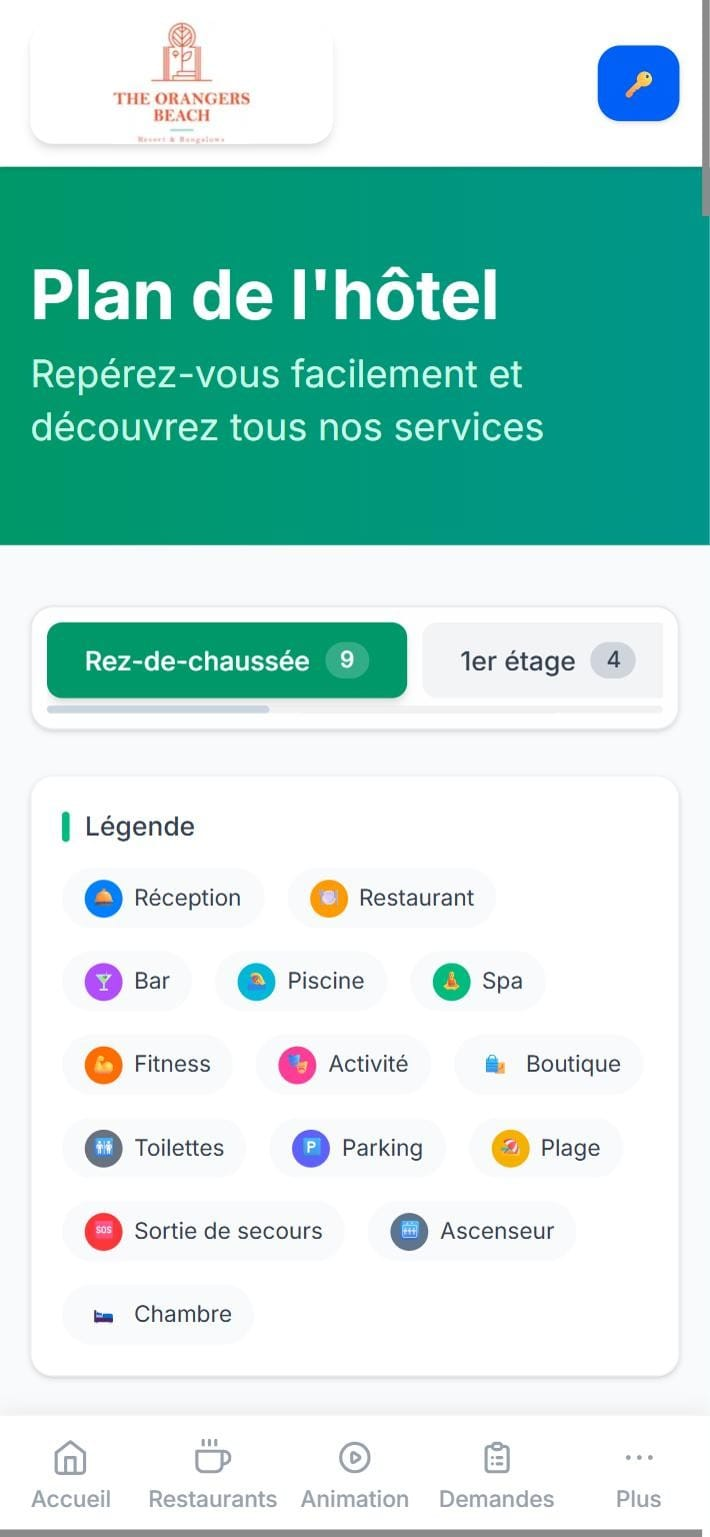
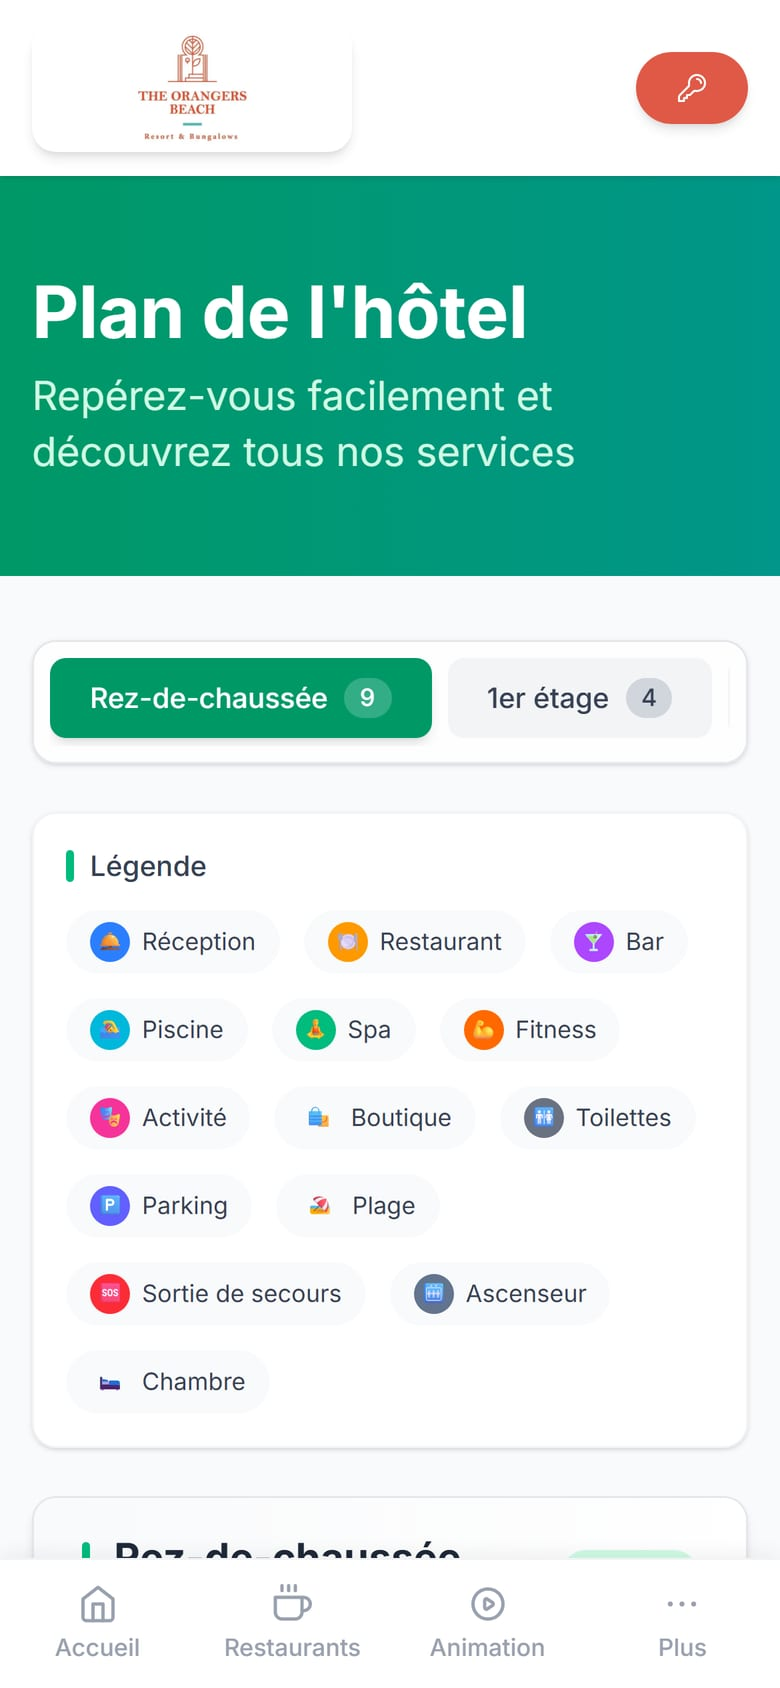
feat(captures-v2): captures prod guestskit.app via Playwright 390×844 3×, resize 780px, ≤95Ko (sharp mozjpeg)

diff --git a/scripts/capture-app.js b/scripts/capture-app.js
@@ -1,0 +1,114 @@
+/**
+ * Capture les écrans publics de www.guestskit.app en mobile (390×844, 3×)
+ * et les compresse avec sharp (≤100 Ko) vers public/captures/.
+ *
+ * Prérequis (une seule fois) :
+ *   cd scripts/capture && npm install && npx playwright install chromium
+ *
+ * Usage :
+ *   node scripts/capture-app.js
+ *
+ * Pour re-capturer un seul écran :
+ *   ONLY=c-restaurants node scripts/capture-app.js
+ */
+
+const path = require("path");
+const fs = require("fs");
+const { chromium } = require(path.join(__dirname, "capture/node_modules/playwright"));
+
+const BASE = "https://www.guestskit.app";
+const OUT = path.join(__dirname, "../public/captures");
+// cookie_consent = "accepted" masque le CookieBanner (clé lue dans CookieBanner.tsx)
+const COOKIE_CONSENT = { key: "cookie_consent", value: "accepted" };
+
+const VIEWPORT = { width: 390, height: 844, deviceScaleFactor: 3 };
+const UA =
+  "Mozilla/5.0 (iPhone; CPU iPhone OS 17_0 like Mac OS X) AppleWebKit/605.1.15 (KHTML, like Gecko) Version/17.0 Mobile/15E148 Safari/604.1";
+
+/** Écrans à capturer — correspondance route → fichier de sortie */
+const SCREENS = [
+  { name: "c-accueil",     url: "/",            scrollY: 0,   label: "Accueil" },
+  { name: "c-restaurants", url: "/restaurants", scrollY: 0,   label: "Restaurants" },
+  { name: "c-animation",   url: "/activities",  scrollY: 0,   label: "Activités / animations" },
+  { name: "c-spectacles",  url: "/shows",       scrollY: 0,   label: "Spectacles" },
+  { name: "c-plan",        url: "/map",         scrollY: 0,   label: "Plan interactif" },
+  { name: "c-decouvertes", url: "/suggestions", scrollY: 0,   label: "Découvertes / suggestions" },
+];
+
+const ONLY = process.env.ONLY;
+const targets = ONLY ? SCREENS.filter((s) => s.name === ONLY) : SCREENS;
+
+async function capture() {
+  let sharp;
+  try {
+    sharp = require("sharp");
+  } catch {
+    // Try to load from website node_modules
+    sharp = require(path.join(__dirname, "../node_modules/sharp"));
+  }
+
+  const browser = await chromium.launch({ headless: true });
+  const context = await browser.newContext({
+    viewport: { width: VIEWPORT.width, height: VIEWPORT.height },
+    deviceScaleFactor: VIEWPORT.deviceScaleFactor,
+    userAgent: UA,
+    locale: "fr-FR",
+  });
+  const page = await context.newPage();
+
+  // Pré-enregistre le consentement pour masquer le CookieBanner sur toutes les pages
+  await page.addInitScript(
+    ({ key, value }) => { localStorage.setItem(key, value); },
+    COOKIE_CONSENT
+  );
+
+  const results = [];
+
+  for (const screen of targets) {
+    console.log(`→ ${screen.label} (${screen.url})`);
+    try {
+      await page.goto(BASE + screen.url, { waitUntil: "networkidle", timeout: 20000 });
+
+      // Masquer la barre de navigation fixe du bas si elle couvre le contenu
+      // shortcut: on la garde visible — c'est l'interface réelle (cahier des charges §4)
+      if (screen.scrollY > 0) {
+        await page.evaluate((y) => window.scrollTo(0, y), screen.scrollY);
+        await page.waitForTimeout(300);
+      }
+
+      const tmpPath = path.join(OUT, screen.name + ".tmp.png");
+      const outPath = path.join(OUT, screen.name + ".jpg");
+      const beforeSize = fs.existsSync(outPath) ? fs.statSync(outPath).size : 0;
+
+      await page.screenshot({ path: tmpPath, type: "png" });
+
+      // Redimensionner à 780px de large (2×) : bon rendu sur les maquettes du site
+      const compressed = await sharp(tmpPath)
+        .resize({ width: 780 })
+        .jpeg({ quality: 82, mozjpeg: true })
+        .toBuffer();
+
+      fs.writeFileSync(outPath, compressed);
+      fs.unlinkSync(tmpPath);
+
+      const kbAfter = Math.round(fs.statSync(outPath).size / 1024);
+      const kbBefore = beforeSize ? Math.round(beforeSize / 1024) + " Ko → " : "";
+      console.log(`   ✓ ${screen.name}.jpg — ${kbBefore}${kbAfter} Ko`);
+      results.push({ name: screen.name, label: screen.label, url: screen.url, kb: kbAfter });
+    } catch (err) {
+      console.error(`   ✗ ${screen.name}: ${err.message.slice(0, 120)}`);
+      results.push({ name: screen.name, label: screen.label, url: screen.url, kb: null, error: err.message.slice(0, 120) });
+    }
+  }
+
+  await browser.close();
+
+  console.log("\n── Résumé ──────────────────────────────────");
+  for (const r of results) {
+    if (r.kb !== null) console.log(`  ✓ ${r.name}.jpg — ${r.kb} Ko`);
+    else console.log(`  ✗ ${r.name} — ÉCHEC: ${r.error}`);
+  }
+  console.log("\nCaptures dans public/captures/ — vérifiez le rendu sur le site.");
+}
+
+capture().catch((e) => { console.error(e); process.exit(1); });
